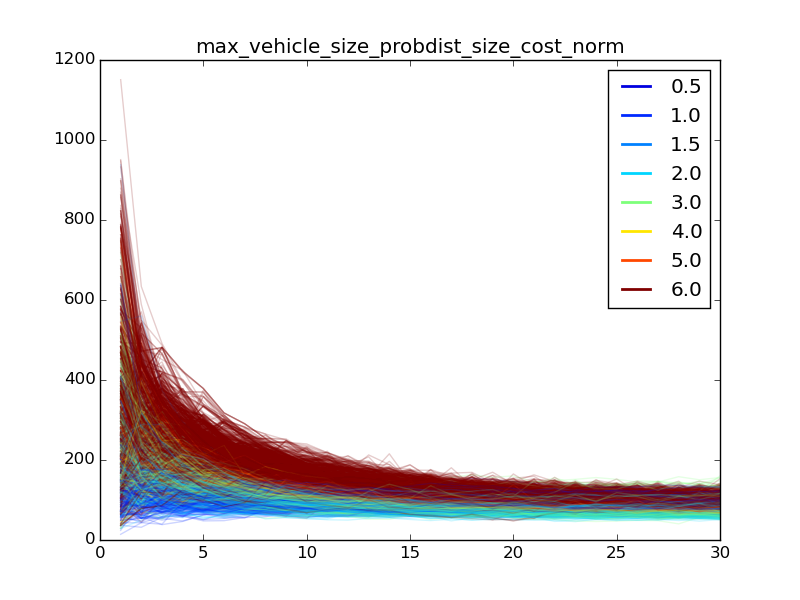
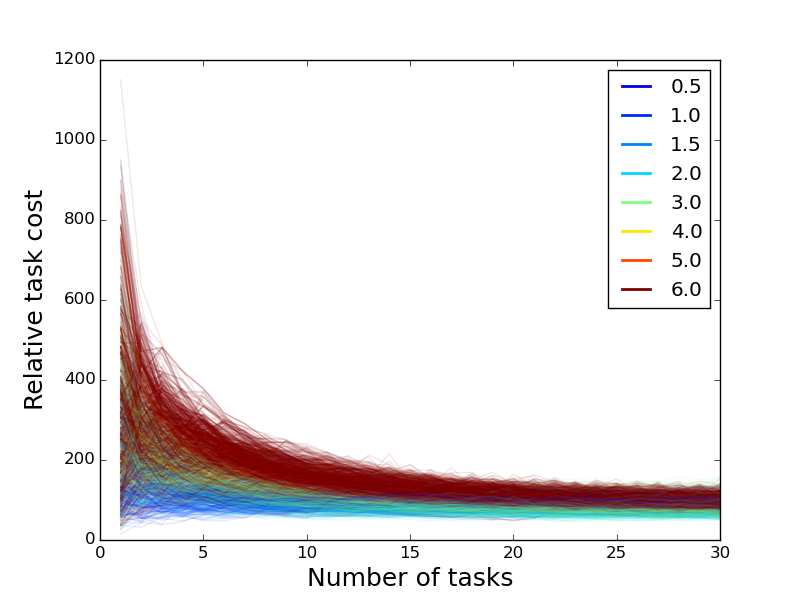
Added labels

diff --git a/statistics.py b/statistics.py
@@ -79,9 +79,10 @@ for (dirpath, dirname, filenames) in os.walk('data'):
 
 print "number of runs:", tot_runs
 
-def plot(dict_name, dataset,  title=None, xlabel=None, ylabel=None, average=False):
+def plot(dict_name, dataset, title=None, xlabel=None, ylabel=None, average=False):
     fig = plt.figure()
-    plt.title(dict_name)
+    if title:
+        plt.title(dict_name)
     ax1 = fig.add_subplot(111)
 
     # To avoid one series totally overwriting another
@@ -98,10 +99,10 @@ def plot(dict_name, dataset,  title=None, xlabel=None, ylabel=None, average=Fals
         x = np.arange(len(item)) + 1
 
         try:
-            ax1.plot(x, item, color=cm.jet(float(key)/float(max_key)), alpha=0.2, lw=1, label=key)
+            ax1.plot(x, item, color=cm.jet(float(key)/float(max_key)), alpha=0.1, lw=1, label=key)
         except ValueError:
             c = cdict[key]
-            ax1.plot(x, item, alpha=0.2, color=c, lw=1, label=key)
+            ax1.plot(x, item, alpha=0.1, color=c, lw=1, label=key)
             
 
     # Remove dulplicate labels
@@ -122,6 +123,12 @@ def plot(dict_name, dataset,  title=None, xlabel=None, ylabel=None, average=Fals
     for legobj in leg.legendHandles:
         legobj.set_linewidth(2.0)
         legobj.set_alpha(1)
+
+    if xlabel:
+        plt.xlabel(xlabel, fontsize=18)
+
+    if ylabel:
+        plt.ylabel(ylabel, fontsize=18)
 
     plt.savefig("%s/%s.png" % (RESULTS_FOLDER, dict_name))
     # plt.show()
@@ -161,11 +168,11 @@ def boxplot(datadict, name):
     plt.savefig('%s/boxplot_%s.png' % (RESULTS_FOLDER, name))
 
 plot("max_vehicle_size", max_vehicle_size)
-plot("max_vehicle_size_probdist_norm", max_vehicle_size_probdist_norm)
+plot("max_vehicle_size_probdist_norm", max_vehicle_size_probdist_norm, xlabel="Number of tasks", ylabel="Relative task cost")
 plot("max_vehicle_size_probdist_norm_size_norm", max_vehicle_size_probdist_norm_size_norm)
 plot("max_vehicle_size_probdist_norm_logsize_norm", max_vehicle_size_probdist_norm_logsize_norm)
 plot("max_vehicle_size_probdist_size_cost", max_vehicle_size_probdist_size_cost)
-plot("max_vehicle_size_probdist_size_cost_norm", max_vehicle_size_probdist_size_cost_norm)
+plot("max_vehicle_size_probdist_size_cost_norm", max_vehicle_size_probdist_size_cost_norm, xlabel="Number of tasks", ylabel="Relative task cost")
 
 plot("number_of_vehicles", number_of_vehicles)
 plot("countries_prob_dist", countries_prob_dist)
